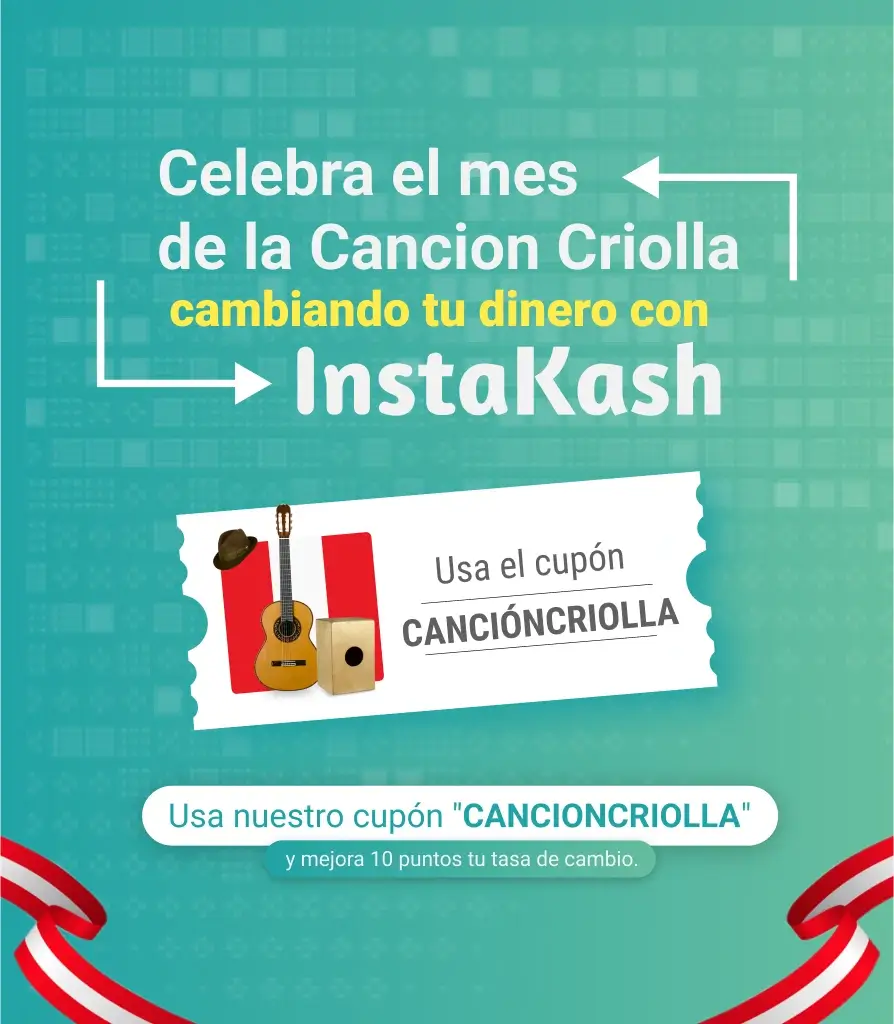
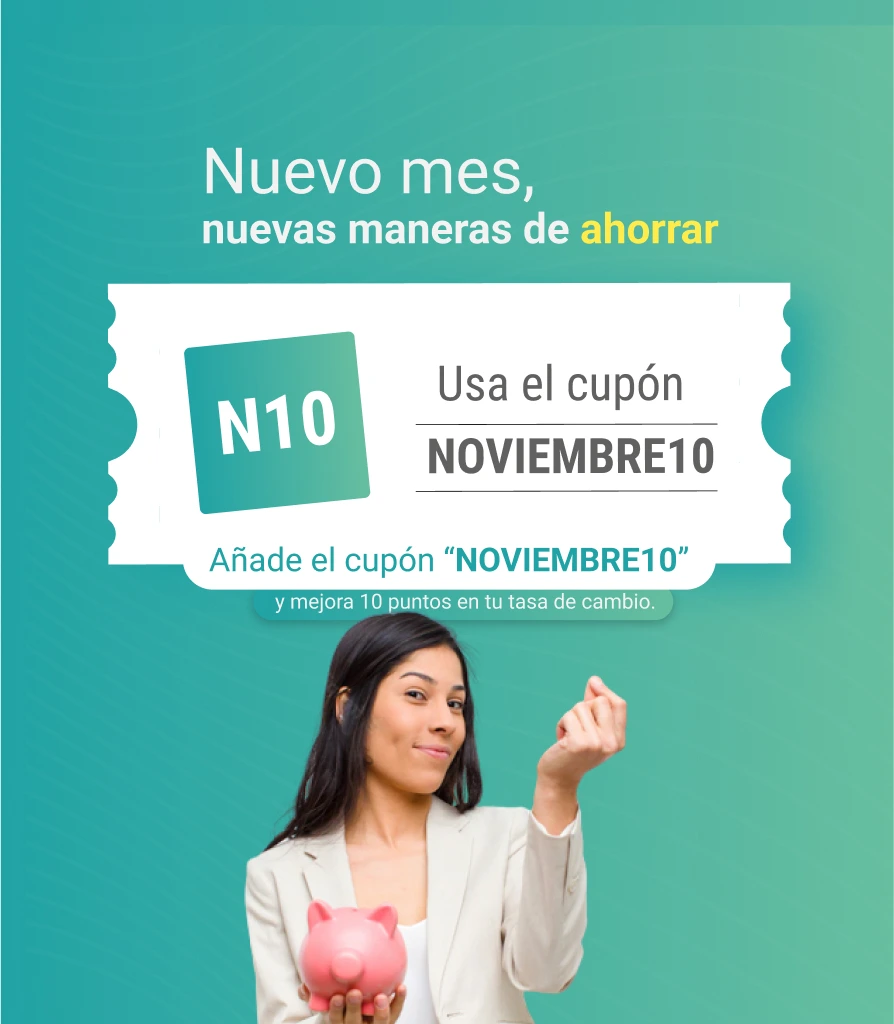
cupon nviembre y nuevo horario

diff --git a/pages/beneficios.js b/pages/beneficios.js
@@ -51,15 +51,15 @@ const Promociones = () => {
           </h3>
 
           <article className={styles.PromotionsWrapper}>
-            {/* <Card className={styles.PromotionCard}>
+            <Card className={styles.PromotionCard}>
               <div className={styles.Cover}>
                 <Image src="/images/beneficios/cupon-mes.webp" alt="Mejora el tipo de cambio con INSTAKASH usando nuestro cupón del mes." layout="fill" objectFit="cover" />
               </div>
               <div className={styles.Info}>
                 <h3>Cupón del mes</h3>
-                <h2>CANCIONCRIOLLA</h2>
+                <h2>NOVIEMBRE10</h2>
                 <p className={styles.Date}>
-                  <time dateTime="01-10-2022">01/10</time> al <time dateTime="31-08-2022">31/10</time> del 2022
+                  <time dateTime="01-11-2022">01/11</time> al <time dateTime="30-11-2022">30/11</time> del 2022
                 </p>
                 <p>
                   Realiza tus cambios este mes con el cupón CANCIONCRIOLLA y obtén 10 puntos a favor de tu cambio. Válido desde el 1 de Octubre hasta el 31 de OCtubre. Para 2
@@ -74,11 +74,11 @@ const Promociones = () => {
                   </button>
                 </div>
               </div>
-            </Card> */}
+            </Card>
 
             <Card className={styles.PromotionCard}>
               <div className={styles.Cover}>
-                <Image src="/images/beneficios/empresas.png" alt="Plan de empresas Instakash" layout="fill" objectFit="cover" />
+                <Image src="/images/beneficios/empresas.webp" alt="Plan de empresas Instakash" layout="fill" objectFit="cover" />
               </div>
               <div className={styles.Info}>
                 <h3>Plan de empresas</h3>
@@ -97,7 +97,7 @@ const Promociones = () => {
 
             <Card className={styles.PromotionCard}>
               <div className={styles.Cover}>
-                <Image src="/images/beneficios/supermontos.png" alt="Cupones para cambiar online con SUPERMONTOS" layout="fill" objectFit="contain" />
+                <Image src="/images/beneficios/supermontos.webp" alt="Cupones para cambiar online con SUPERMONTOS" layout="fill" objectFit="contain" />
               </div>
               <div className={styles.Info}>
                 <h3>Cupones activos</h3>
@@ -116,7 +116,7 @@ const Promociones = () => {
 
             <Card className={styles.PromotionCard}>
               <div className={styles.Cover}>
-                <Image src="/images/beneficios/kash.png" alt="Gana KASH cambiando dólares online" layout="fill" objectFit="contain" />
+                <Image src="/images/beneficios/kash.webp" alt="Gana KASH cambiando dólares online" layout="fill" objectFit="contain" />
               </div>
               <div className={styles.Info}>
                 <h3>Refiere y</h3>

diff --git a/pages/index.js b/pages/index.js
@@ -9,7 +9,7 @@ import Calculator from "../components/calculator";
 import Card from "../components/UI/Card";
 import AdsCarousel from "../components/UI/carousels/ads.component";
 import BenefitsCarousel from "../components/UI/carousels/benefits.component";
-// import { BaseModal } from "../components/UI/Modal";
+import { BaseModal } from "../components/UI/Modal";
 // CLASSES
 import styles from "../styles/Home.module.scss";
 import { getCounters } from "../utils/fetch-data";
@@ -313,9 +313,9 @@ const Home = ({ counters }) => {
           </div>
         </div>
       </section>
-      {/* <BaseModal isOpen={infoModal} onClose={handleCloseModal}>
-        <Image src="/images/posters/cupon.webp" alt="cambia soles y dolares con INSTAKASH con nuestro cupón." layout="fill" objectFit="contain" /> */}
-      {/* <div className={styles.ModalBody}>
+      <BaseModal isOpen={infoModal} onClose={handleCloseModal}>
+        <Image src="/images/posters/cupon.webp" alt="cambia soles y dolares con INSTAKASH con nuestro cupón." layout="fill" objectFit="contain" />
+        {/* <div className={styles.ModalBody}>
           <h3>Lentitud con BCP</h3>
           <p>
             Estimado Cliente, agradecemos por su confianza. Notificamos que en estos momentos <b>la plataforma de empresas de BCP está presentando problemas de lentitud</b>, por lo
@@ -323,7 +323,7 @@ const Home = ({ counters }) => {
           </p>
           <p className="font-bold mt-6">Agradecemos su comprensión.</p>
         </div> */}
-      {/* </BaseModal> */}
+      </BaseModal>
       <Script
         strategy="afterInteractive"
         type="application/ld+json"

diff --git a/components/UI/carousels/ads.component.js b/components/UI/carousels/ads.component.js
@@ -1,4 +1,5 @@
 import Image from "next/image";
+import Link from "next/link";
 import Slider from "react-slick";
 import "slick-carousel/slick/slick-theme.css";
 import "slick-carousel/slick/slick.css";
@@ -21,7 +22,7 @@ const AdsCarousel = () => {
 
   return (
     <Slider className={styles.BannerSlider} {...settings}>
-      {/* <div className="w-full">
+      <div className="w-full">
         <Link href="/beneficios">
           <a className={styles.BannerCard}>
             {isMobile ? (
@@ -31,7 +32,7 @@ const AdsCarousel = () => {
             )}
           </a>
         </Link>
-      </div> */}
+      </div>
       <div className="w-full">
         <a className={styles.BannerCard} href="https://linktr.ee/instakashnet" target="_blank" rel="noopener noreferrer">
           {isMobile ? (

diff --git a/pages/contacto.js b/pages/contacto.js
@@ -78,7 +78,8 @@ const contacto = () => {
                 <Clock className={styles.infoIcon} />
                 <section>
                   <h2>Nuestro horario</h2>
-                  <p className="text-sm">Lunes a Sábado: 9AM a 8PM</p>
+                  <p className="text-sm">Lunes a Viernes: 9AM a 7PM</p>
+                  <p className="text-sm">Sábados: 9AM a 2:30PM</p>
                   <p className="text-sm">Domingos y Feriados: cerrados</p>
                 </section>
               </div>

diff --git a/components/layout/Footer.js b/components/layout/Footer.js
@@ -79,7 +79,10 @@ const Footer = ({ pathname }) => {
                 <a href="mailto:contacto@instakash.net">contacto@instakash.net</a>
               </li>
               <li>
-                Lunes a Sábado <br /> 9 a.m - 7 p.m
+                Lunes a Viernes <br /> 9 a.m - 7 p.m
+              </li>
+              <li>
+                Sábados <br /> 9 a.m - 2:30 p.m
               </li>
               <li>
                 Domingos y feriados <br />
